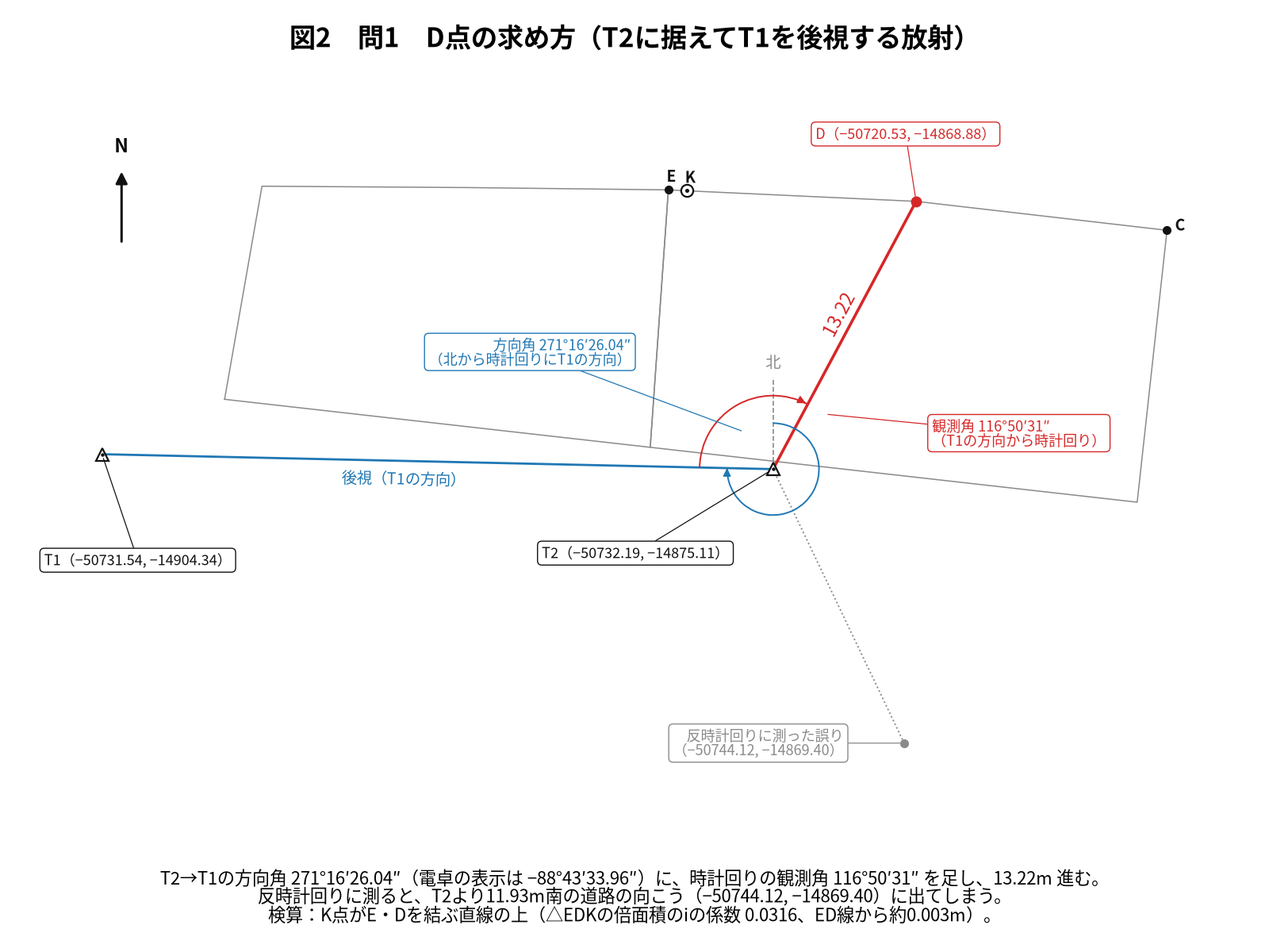
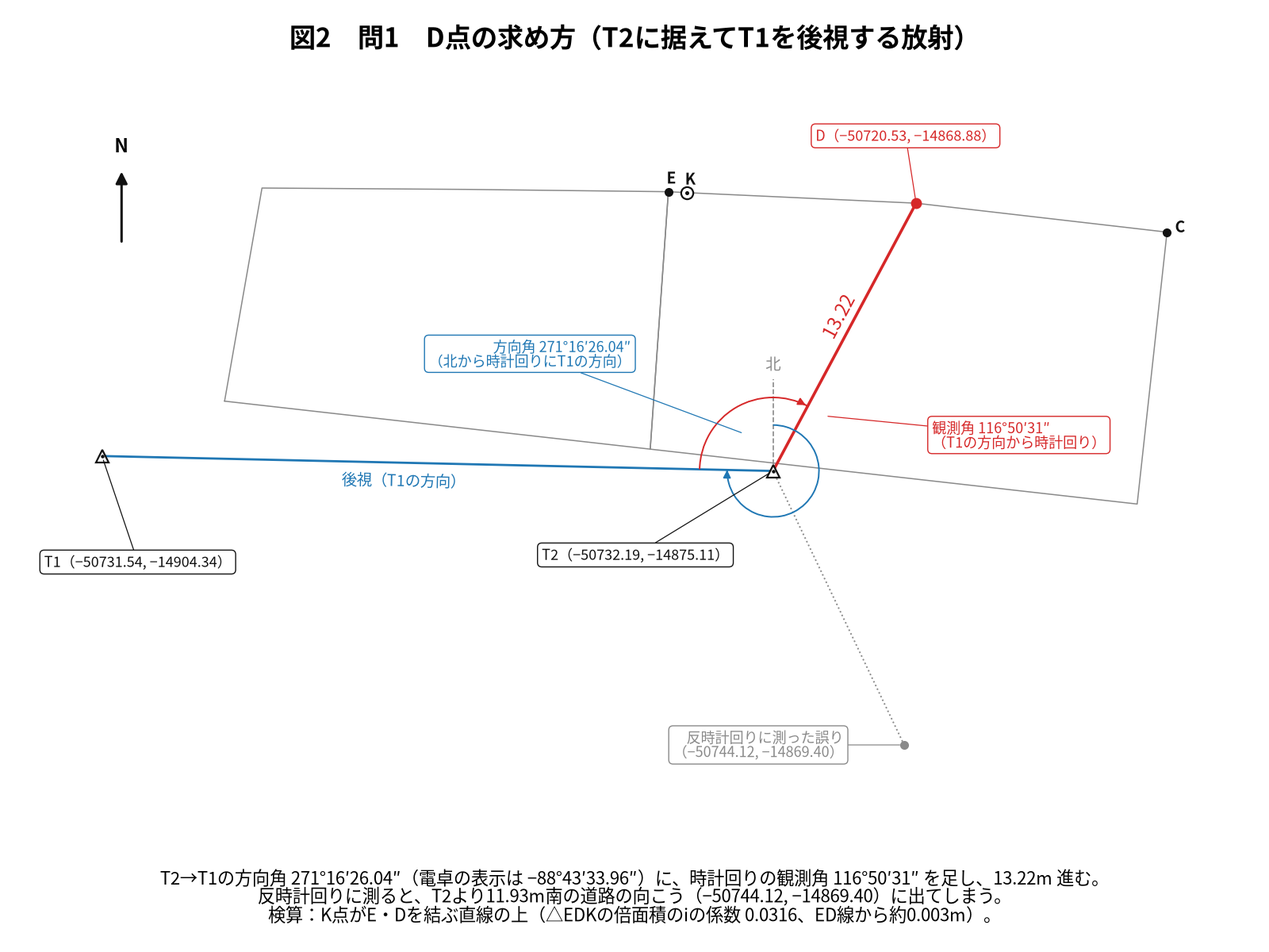
H30 Q21: 最新の依頼文・執筆プロンプトと照らし合わせた追加作業（解答例との直接照合、図10・図11の追加）
- アガルートの解答例と第1欄〜第4欄を欄ごと・空欄ごとに直接照合（すべて一致）。記事の冒頭を「照合済み」に、照合スクリプトの間接の照合を直接の照合に置き換え
- 問題文の注と調査図素図の注を書き分け、まとめに具体的な時間配分と解く順番を追加（図11）
- 解説と見比べて、帯の面積を対角線2本で出す別解（図10）、地積測量図の単位・凡例、増築は建物の登記であることを追加
- 図2・図3の表示範囲に背景の区画の頂点を全部入れ直した（重なりの自動検査0件・目視確認済み）
- 照合スクリプトNG 0件（335項目）。README・CLAUDE.md・改善記録を更新

Claude-Session: https://claude.ai/code/session_01XxzUrF9d5pKi2C2ak82JYQ

diff --git a/note-articles-Kijyutsu/H30/Q21/verify_H30_dai21mon_kaiwa.py b/note-articles-Kijyutsu/H30/Q21/verify_H30_dai21mon_kaiwa.py
@@ -1,7 +1,8 @@
 """平成30年度 第21問（土地）会話形式note記事：記事・付属プロンプトの数値・体裁の照合スクリプト。
 2026-09-29、出題当初の試験問題の本文（リポジトリの public/kijutsu/H30-tochi/q25〜q30 と、ユーザー添付の過去問集の再掲。
-この年の訂正表は第22問だけ）と答案用紙（a1・a2）から作り直した版。予備校の解答例は添付がなく、照合していない
-（記事の冒頭にもそう書いてある）。答えはすべて、下の計算で座標から出し直して確かめる。
+この年の訂正表は第22問だけ）と答案用紙（a1・a2）から作り直した版。同日、別のセッションに添付されていたアガルートの過去問集
+（全22ページ。解答例は第1欄・第2欄・第3欄・第4欄）と、欄ごと・空欄ごとに直接照合した（下の AGAROOT）。
+答えはすべて、下の計算で座標から出し直して確かめる。
 実行: python3 note-articles-Kijyutsu/H30/Q21/verify_H30_dai21mon_kaiwa.py"""
 import cmath
 import math
@@ -162,32 +163,57 @@ check('東西の長さ', f'東西が約{max(ys) - min(ys):.1f}mで約{round((max
 check('南北の長さ', f'南北が約{max(xs) - min(xs):.1f}mで約{round((max(xs) - min(xs)) * 4)}mm')
 check('T4まで', f'東西約{round((T4.imag - min(ys)) * 4)}mm、南北約{round((max(xs) - T4.real) * 4)}mm')
 for s in ['地番欄は『11番1、11番2』', '『A市B町三丁目』', '（イ）11－1と（ロ）11－2', 'B・D・J・Kはコンクリート杭、C・E・Iは金属標',
-          '基準点T2・T4の位置と点名（注6）', 'E・Iの西は10－1', 'E・K・D・Cの北は10－3', 'Eの北西の角は10－2', '1m ＝ 4mm']:
+          '基準点T2・T4の位置と点名（問題文の注6）', '単位の表示「（単位：m）」', '境界標の種類の凡例', 'E・Iの西は10－1', 'E・K・D・Cの北は10－3', 'Eの北西の角は10－2', '1m ＝ 4mm']:
     check('問4', s)
 
-# ---- 間接の照合：作り直す前の版（2026-09-29、アガルートの解答例と照合済み）の照合スクリプトに転記されていた答え ----
-# 今回は解答例の添付がないので、その転記と一致するかを「間接の照合」として確かめる（記事の冒頭には照合済みと書かない）。
-PREV_AGAROOT = ['−50720.53', '−14868.88', '−50731.24', '−14880.46', '表題登記', '隣接する', '登記された', '- **エ**：意思',
-                '土地一部地目変更・分筆登記', '地積測量図　代理権限証書', '金2,000円', '13番1号　丙山次郎', 'A市B町三丁目',
-                '③253', '（イ）11番1', '③244', '平成30年10月1日一部地目変更', '①③11番1、11番2に分筆', '（ロ）11番2', '②宅地',
-                '③9.03', '11番から分筆', '：0.80', '：10.00', '：11.00', '：11.91', '：20.54', '：0.81', '：11.24', '：11.29',
-                '11番1、11番2']
-for s_ in PREV_AGAROOT:
-    check('旧版に転記されたアガルートの解答例と一致（間接）', s_)
+# ---- アガルートの解答例との直接の照合（2026-09-29、過去問集の解答例ページ〈第1欄〜第4欄〉から欄ごと・空欄ごとに転記） ----
+AGAROOT = {
+    '第1欄 D点': '**▶ D点（−50720.53, −14868.88）**',
+    '第1欄 I点': '**▶ I点（−50731.24, −14880.46）**',
+    '第2欄 ア': '- **ア**：表題登記', '第2欄 イ': '- **イ**：隣接する', '第2欄 ウ': '- **ウ**：登記された', '第2欄 エ': '- **エ**：意思',
+    '第3欄 登記の目的': '- **登記の目的**：土地一部地目変更・分筆登記',
+    '第3欄 添付書類': '- **添付書類**：地積測量図　代理権限証書',
+    '第3欄 登録免許税': '- **登録免許税**：金2,000円',
+    '第3欄 申請人': '- **申請人**：A市B町三丁目13番1号　丙山次郎',
+    '第3欄 所在': '- **所在**：A市B町三丁目',
+    '第3欄 1行目': '- **1行目（分筆前）**：①11番、②雑種地、③253',
+    '第3欄 （イ）の行': '- **2行目（イ）**：①（イ）11番1、③244、登記原因「平成30年10月1日一部地目変更　①③11番1、11番2に分筆」',
+    '第3欄 （ロ）の行': '- **3行目（ロ）**：①（ロ）11番2、②宅地、③9.03、登記原因「11番から分筆」',
+    '第4欄 地番・所在': '地番欄は『11番1、11番2』。土地の所在は『A市B町三丁目』',
+    '第4欄 地番の符号': '（イ）11－1と（ロ）11－2',
+    '第4欄 EK': '- **EK**：0.80', '第4欄 KD': '- **KD**：10.00', '第4欄 DC': '- **DC**：11.00', '第4欄 CB': '- **CB**：11.91',
+    '第4欄 BJ': '- **BJ**：20.54', '第4欄 JI': '- **JI**：0.81', '第4欄 IE': '- **IE**：11.24', '第4欄 KJ': '- **KJ（分筆線）**：11.29',
+    '第4欄 境界標': 'B・D・J・Kはコンクリート杭、C・E・Iは金属標',
+    '第4欄 隣接地': 'E・Iの西は10－1、E・K・D・Cの北は10－3、Eの北西の角は10－2',
+    '第4欄 基準点': '基準点T2・T4の位置と点名',
+    '解説の求積（イ）': '244.561', '解説の求積（ロ）': '9.03935', '解説の合計': '253.60035', '解説の公差': '1.43㎡',
+}
+for k_, s_ in AGAROOT.items():
+    check(f'アガルートの解答例と一致（{k_}）', s_)
+check('照合済みの一文', '※本記事の数値は、アガルートアカデミーの解答例と照合済みです。')
+check('解説と見比べて足した別解（対角線2本）', '帯の倍面積 ＝ Conjg(E′ − J′) × (K′ − I′)')
+check('対角線の式の表示', '表示：' + disp((E - J).conjugate() * (K - I)))
+judge('対角線の式のiの係数が4点の式と同じ', abs(((E - J).conjugate() * (K - I)).imag - 18.0787) < 1e-9)
+for s_ in ['いちばん時間を食うのは、乙土地の7点と、帯と残りの駐車場の面積', 'D点とI点がなくても書ける欄はどこですか？',
+           '①問2を埋める、②申請書の計算の要らない欄を書く、③原点をずらす、④D点、⑤I点と甲土地の面積の裏付け、⑥乙土地・帯・残りの面積と公差の判定、⑦地積測量図の辺長と作図',
+           '不動産登記法第51条第1項', '調査図素図の注で、K点は', '調査図素図の注に『I点は', '座標は問題文の注3で', '辺の長さは問題文の注4']:
+    check('最新の依頼文との照らし合わせで足した内容', s_)
 absent('旧版の実測面積の誤記', '253.61')
+for bad in ['座標は注3', '検算よ。注で', '次はI点。注に', '（注5）', '（注6）']:
+    absent('どちらの注か書き分けていない', bad)
 
 # ---- 付属プロンプトとの整合 ----
 a = base.index('あなたは土地家屋調査士試験の教材デザイナーです。')
 b = base.index('---\n\n## 差し替えデータ（問題ごとにここを埋める）')
 body = base[a:b].replace('note記事【記事のタイトル】', 'note記事「' + text.splitlines()[0][2:] + '」', 1)
 judge('解説図プロンプトの本文が基本フォームと一致', body in fig)
-n_fig = len(re.findall(r'^- \*\*図\d：', fig, re.M))
-judge(f'解説図プロンプトの図の数 {n_fig}枚（9枚）', n_fig == 9)
-for i in range(1, 10):
-    judge(f'作図済みPNG 図{i}', any(f.startswith(f'H30_dai21mon_zu0{i}_') and f.endswith('.png')
+n_fig = len(re.findall(r'^- \*\*図\d+：', fig, re.M))
+judge(f'解説図プロンプトの図の数 {n_fig}枚（11枚）', n_fig == 11)
+for i in range(1, 12):
+    judge(f'作図済みPNG 図{i}', any(f.startswith(f'H30_dai21mon_zu{i:02d}_') and f.endswith('.png')
                                   for f in os.listdir(os.path.join(HERE, 'zu'))))
-nums = [int(m) for m in re.findall(r"(?:new_figure\(|suptitle\()'図(\d)　", draw)]
-judge(f'作図スクリプトの図のタイトル番号が1から順（{nums}）', nums == list(range(1, 10)))
+nums = [int(m) for m in re.findall(r"(?:new_figure\(|suptitle\()'図(\d+)　", draw)]
+judge(f'作図スクリプトの図のタイトル番号が1から順（{nums}）', nums == list(range(1, 12)))
 for s in ['271°16′26.04″', '−88°43′33.96″', '116°50′31″', '4°00′58.26″', '848.5619 ÷ 399.4435', '2.1243…',
           '（−50744.12, −14869.40）', '（−50731.33, −14879.67）', '0.79', '187.18645', '191.65', '4.47',
           '253.60035', '1.43', '4.13', '253.03', '244.561', '9.03935', '0.8050…', '約90mm', '約54mm', '約94mm', '約67mm',
@@ -195,7 +221,8 @@ for s in ['271°16′26.04″', '−88°43′33.96″', '116°50′31″', '4°0
     check('解説図プロンプトの数値', s, fig, '解説図')
     check('作図スクリプトの数値', s, draw, '作図')
 for s in ['暗算でずらせますね', 'K点はちゃんとED線の上です！', 'わなにはまるところでした……', 'これが鉄則よ',
-          'その1月以内ね', 'こちらも範囲内です', '（イ）の行の原因には①も付けるのよ', '少し離して書きなさい']:
+          '乙土地の申請書には入らないわ', 'こちらも範囲内です', '（イ）の行の原因には①も付けるのよ', '少し離して書きなさい',
+          '対角線が交わる四角形なら、この式1本で済むんですね', '問2は先に取れています']:
     check('図の挿入位置の文言', s)
     check('図の挿入位置の文言（プロンプト側）', s, fig, '解説図')
 for s in ['平成30年10月19日　申請　Ａ地方法務局', '土地一部地目変更・分筆登記', '地積測量図　代理権限証書', '金2,000円',
@@ -233,11 +260,11 @@ for s in ['①誤答', '②添削（赤ペン）', '③正解', 'Ａ市Ｂ町三
         check('添削の画像とプロンプトの文言', s, fix, '添削')
 
 # ---- 表記 ----
-for bad in ['PDF', '名変', '右上', '左下', '✓', '✕', 'コンクリートくい', 'くいが', 'ブロックへい', '照合済みです', '≒']:
+for bad in ['PDF', '名変', '右上', '左下', '✓', '✕', 'コンクリートくい', 'くいが', 'ブロックへい', '≒']:
     absent('誤記・混入・専門用語のひらがな書き', bad)
 check('専門用語は問題文どおりの漢字', 'コンクリート杭')
 check('専門用語は問題文どおりの漢字', 'ブロック塀')
-check('照合していないことの明記', '予備校の解答例との照合はしていません')
+absent('照合していない旨の古い一文', '予備校の解答例との照合はしていません')
 
 # ---- note向けの体裁 ----
 lines = text.splitlines()
@@ -254,7 +281,7 @@ for i, l in enumerate(lines):
             same.append(i + 1)
 judge(f'同じ話者のセリフの連続: {same}', not same)
 n_marker = len(re.findall(r'^> 【画像挿入】', text, re.M))
-judge(f'画像挿入マーカー（引用形式）: {n_marker}個（解説図9＋添削1＋完成形1＝計11か所の想定）', n_marker == 11)
+judge(f'画像挿入マーカー（引用形式）: {n_marker}個（解説図11＋添削1＋完成形1＝計13か所の想定）', n_marker == 13)
 judge('記事の最後が区切り線', lines[-1] == '---')
 title = lines[0]
 prefix = '# 【土地家屋調査士受験生向け】平成30年度問題21（土地）〜'

diff --git a/note-articles-Kijyutsu/H30/Q21/zu/draw_H30_dai21mon_kaisetsuzu.py b/note-articles-Kijyutsu/H30/Q21/zu/draw_H30_dai21mon_kaisetsuzu.py
@@ -1,4 +1,4 @@
-"""平成30年度 第21問（土地）会話形式note記事の解説図9枚を、座標値から作図する。
+"""平成30年度 第21問（土地）会話形式note記事の解説図11枚を、座標値から作図する。
 
 `../prompt_H30_dai21mon_kaiwa_kaisetsuzu.md`（基本フォーム `../../../prompt_kaisetsuzu-gazou_kihon-form_tochi.md` から作成）
 の指示を、そのままPythonにしたもの。図に書く数値はすべて座標から計算し直し、記事の数値と一致しなければ止まる。
@@ -127,7 +127,7 @@ fig, (ax,) = new_figure('図2　問1　D点の求め方（T2に据えてT1を後
                         '反時計回りに測ると、T2より11.93m南の道路の向こう（−50744.12, −14869.40）に出てしまう。\n'
                         '検算：K点がE・Dを結ぶ直線の上（△EDKの倍面積のiの係数 0.0316、ED線から約0.003m）。')
 z = Zu(ax, fontsize=14)
-fit(ax, [T1, T2, D, Dw, E, C, T2 + P(4, 0)], margin=0.06, pad_aspect=True)
+fit(ax, [T1, T2, D, Dw, T2 + P(4, 0)] + KOU + OTSU, margin=0.06, pad_aspect=True)   # 背景の区画の頂点も全部入れる
 z.poly(KOU, color=GRAY, lw=1.1)
 z.poly(OTSU, color=GRAY, lw=1.1)
 z.line(T2, T2 + 4, color=GRAY, lw=1.2, ls='--')
@@ -166,7 +166,7 @@ fig, (ax1, ax2) = new_figure('図3　問1　I点の求め方（H→Eの延長線
                              'Eの真南にとると（−50731.33, −14879.67）で、J点とわずか0.01mしか離れず、正しいIより0.79m東。',
                              ncols=2, width_ratios=[1, 1])
 za = Zu(ax1, fontsize=14)
-fit(ax1, [H, A, B, J, E, G], margin=0.06, pad_aspect=True)
+fit(ax1, [H] + KOU + OTSU, margin=0.06, pad_aspect=True)   # 背景の区画の頂点も全部入れる
 za.poly(KOU, color=GRAY, lw=1.1)
 za.poly(OTSU, color=GRAY, lw=1.1)
 za.line(H, E, color=BLACK, lw=2.4)
@@ -354,7 +354,7 @@ ALL_PROBLEMS += save(fig, [z], 'H30_dai21mon_zu08_bunpitsu_chiban.png')
 # =====================================================================
 fig, (ax,) = new_figure('図9　問4　地積測量図（11番1・11番2）の完成見本',
                         '縮尺1/250で答案用紙に描くと 1m ＝ 4mm（乙土地は東西約90mm・南北約54mm、T4まで入れて東西約94mm・南北約67mm）。\n'
-                        'JIは0.8050…で四捨五入の境目なので0.81。座標値・地積・求積方法・測量年月日は書かない（注5）。T2・T4は位置と点名だけ（注6）。\n'
+                        'JIは0.8050…で四捨五入の境目なので0.81。座標値・地積・求積方法・測量年月日は書かない（問題文の注5）。T2・T4は位置と点名だけ（問題文の注6）。\n'
                         '地番欄は「11番1、11番2」、土地の所在は「A市B町三丁目」。T1・T3と、乙土地の筆界点でないA・F・G・Hは描かない。')
 z = Zu(ax, fontsize=15)
 fit(ax, [E, C, B, I, T2, T4, E + P(4, 0)], margin=0.08, pad_aspect=True)
@@ -391,5 +391,75 @@ z.edge_label(B, J, '道路', co, fs=15, dists=(46, 56), rotate=False, ts=(0.3, 0
 z.free_text(P(-18.6, 9.0), '（単位：ｍ）\n◎ コンクリート杭：B・D・J・K\n● 金属標：C・E・I\n△ 基準点：T2・T4', fs=13,
             ha='left', va='bottom', offsets=((0, 0), (0, 30), (-40, 0)))
 ALL_PROBLEMS += save(fig, [z], 'H30_dai21mon_zu09_chiseki_sokuryouzu.png')
+
+# =====================================================================
+# 図10：問3 別解 帯（四角形）の面積を対角線2本で出す
+# =====================================================================
+dg = (E - J).conjugate() * (K - I)
+assert f'{dg.real:.4f}' == '126.2051' and f'{dg.imag:.4f}' == '18.0787' and f'{abs(dg.imag) / 2:.5f}' == '9.03935'
+fig, (ax1, ax2) = new_figure('図10　問3　別解　帯（四角形E・I・J・K）の面積を対角線2本で出す',
+                             '四角形の倍面積は、対角線2本の Conjg(E′ − J′) × (K′ − I′) のiの係数だけで出る（4点を順にたどる式と同じ18.0787）。\n'
+                             '18.0787 ÷ 2 ＝ 9.03935 → 宅地なので9.03㎡。点を4つたどる式の検算に使う。',
+                             ncols=2, width_ratios=[1, 1.4])
+za = Zu(ax1, fontsize=14)
+fit(ax1, RO + [E + P(0, 3), I + P(0, -3)], margin=0.06, pad_aspect=True)
+za.poly(RO, fill=PURPLE)
+za.line(E, J, color=RED, lw=2.4, ls='--')
+za.line(I, K, color=BLUE, lw=2.4, ls='--')
+za.north_arrow(length=0.07)
+for p, n in [(E, 'E'), (I, 'I'), (J, 'J'), (K, 'K')]:
+    za.point(p, 'metal' if n in 'EI' else 'concrete')
+    za.point_label(p, n, away=centroid(RO))
+za.callout(E + (J - E) * 0.3, '対角線 E→J', dirs=(180, 160, -160), color=RED, dists=(60, 80, 100))
+za.callout(I + (K - I) * 0.3, '対角線 I→K', dirs=(0, 20, -20), color=BLUE, dists=(60, 80, 100))
+ax1.set_title('帯E・I・J・K（幅約0.8m）', fontsize=17, weight='bold', pad=6)
+ax2.axis('off')
+ax2.set_xlim(0, 100)
+ax2.set_ylim(0, 100)
+for y, txt, col, fs in [(86, '4点を順にたどる式', BLACK, 18),
+                        (77, 'E′・Conjg(I′) ＋ I′・Conjg(J′) ＋ J′・Conjg(K′) ＋ K′・Conjg(E′)', BLACK, 14),
+                        (69, '表示：128.9305 ＋ 18.0787i', BLACK, 15),
+                        (52, '対角線2本の式（別解）', RED, 18),
+                        (43, 'Conjg(E′ − J′) × (K′ − I′)', RED, 16),
+                        (35, '表示：126.2051 ＋ 18.0787i', RED, 15),
+                        (18, 'どちらもiの係数は18.0787（実部は使わない）', BLACK, 15),
+                        (9, '18.0787 ÷ 2 ＝ 9.03935 → （ロ）11番2は9.03㎡', BLACK, 15)]:
+    ax2.text(4, y, txt, fontsize=fs, color=col, va='center', weight='bold' if fs >= 18 else 'normal')
+ALL_PROBLEMS += save(fig, [za], 'H30_dai21mon_zu10_obi_taikakusen.png')
+
+# =====================================================================
+# 図11：本番の解く順番（流れ図。固定配置）
+# =====================================================================
+setup_font()
+fig = plt.figure(figsize=(16, 12), dpi=100)
+fig.patch.set_facecolor('white')
+fig.suptitle('図11　本番の解く順番（D点・I点がなくても書ける欄を先に）', fontsize=24, weight='bold', y=0.965)
+ax = fig.add_axes([0.03, 0.10, 0.94, 0.80])
+ax.set_xlim(0, 100)
+ax.set_ylim(0, 100)
+ax.axis('off')
+STEPS = [
+    ('①', '問2の穴埋め（ア 表題登記・イ 隣接する・ウ 登記された・エ 意思）', '計算なし', GREEN),
+    ('②', '申請書の計算の要らない欄（登記の目的・添付書類・登録免許税・申請人・所在・1行目・地番と原因・（ロ）の地目）', '計算なし', GREEN),
+    ('③', '原点を（−50720.00, −14880.00）にずらす', '約1分', BLUE),
+    ('④', 'D点（T2から放射。K点がE・D線に乗るかで検算）', 'D・Iと裏付けで約10分', BLUE),
+    ('⑤', 'I点（H→Eの延長線とA→Bの交点）と甲土地187.18㎡の裏付け', '', BLUE),
+    ('⑥', '乙土地・帯・残りの面積と公差の判定（いちばん時間を食う。D・Iがないと始められない）', '約10分', RED),
+    ('⑦', '地積測量図の辺長8本と作図', '約15分', PURPLE),
+]
+for k, (no, txt, tm, col) in enumerate(STEPS):
+    y = 88 - k * 13
+    ax.add_patch(FancyBboxPatch((3, y - 4.5), 94, 9, boxstyle='round,pad=0.5', fc='#f7f7f7', ec=col, lw=1.8))
+    ax.text(5, y, no, fontsize=20, weight='bold', color=col, va='center')
+    ax.text(10, y, txt, fontsize=15, va='center')
+    if tm:
+        ax.text(95, y, tm, fontsize=15, va='center', ha='right', color=col, weight='bold')
+    if k < len(STEPS) - 1:
+        ax.annotate('', (50, y - 8.3), xytext=(50, y - 5.2), arrowprops=dict(arrowstyle='-|>', color=GRAY, lw=1.6))
+fig.text(0.5, 0.045, '①②は座標がなくても書ける。面積の計算で時間が足りなくなっても、問2と申請書の大部分は先に取れている。',
+         ha='center', va='center', fontsize=15)
+path = os.path.join(OUT, 'H30_dai21mon_zu11_toku_junban.png')
+fig.savefig(path, dpi=100, facecolor='white')
+print('[重なり検査] 図11: 流れ図（固定配置）\n  →', path)
 
 print('重なりの合計:', len(ALL_PROBLEMS))

diff --git a/note-articles-Kijyutsu/H30/Q21/note_H30_dai21mon_tochi_kaiwa_kaisetsu.md b/note-articles-Kijyutsu/H30/Q21/note_H30_dai21mon_tochi_kaiwa_kaisetsu.md
@@ -1,6 +1,6 @@
 # 【土地家屋調査士受験生向け】平成30年度問題21（土地）〜真南に見えるI点は延長線の交点〜
 
-※本記事は、平成30年度の試験問題の本文（出題当初のもの。この年の訂正表は第22問だけで、第21問の訂正はない）と答案用紙に基づいて書いています。予備校の解答例との照合はしていません。
+※本記事の数値は、アガルートアカデミーの解答例と照合済みです。試験問題の本文（出題当初のもの。この年の訂正表は第22問だけで、第21問の訂正はない）と答案用紙に基づいて書いています。
 
 ---
 
@@ -118,7 +118,7 @@ D′ ＝ T2′ ＋ 13.22∠( arg(T1′ − T2′) ＋ 116°50′31″ )
 表示：−0.5300… ＋ 11.1200…i
 
 **トリ先生**  
-「途中の arg(T1′ − T2′)、つまりT2→T1の方向角は −88°43′33.96″ と負で出るわ。360°を足して 271°16′26.04″ と読めばいいけど、計算は負のままで結果は同じ。座標は注3で小数第3位を四捨五入。丸めた値を記憶して、元の原点に戻しなさい」
+「途中の arg(T1′ − T2′)、つまりT2→T1の方向角は −88°43′33.96″ と負で出るわ。360°を足して 271°16′26.04″ と読めばいいけど、計算は負のままで結果は同じ。座標は問題文の注3で小数第3位を四捨五入。丸めた値を記憶して、元の原点に戻しなさい」
 
 ```
 0 [−] 0.53 [+] 11.12 [i] [SHIFT] [STO] [D]
@@ -135,7 +135,7 @@ Y ＝ −14880.00 ＋ 11.12 ＝ −14868.88
 「Yのほうは、マイナス1万4千8百80に11.12を足すので、絶対値が小さくなって−14868.88。符号を間違えないようにします」
 
 **トリ先生**  
-「検算よ。注で、K点はD点とE点を結ぶ直線の上の点。三角形E・D・Kの面積がほぼ0になるはず。E′を記憶して、K′は直接打ち込みなさい」
+「検算よ。調査図素図の注で、K点はD点とE点を結ぶ直線の上の点。三角形E・D・Kの面積がほぼ0になるはず。E′を記憶して、K′は直接打ち込みなさい」
 
 電卓操作（E＝E′）
 
@@ -171,7 +171,7 @@ Y ＝ −14880.00 ＋ 11.12 ＝ −14868.88
 ## 第3章：問1 I点はH→Eの延長線とA→Bの交点
 
 **トリ先生**  
-「次はI点。注に『I点は、A点とB点を結ぶ直線上の点であり、E点とH点を結ぶ直線の延長線上の点である』とあるわ。藍子、Iは？」
+「次はI点。調査図素図の注に『I点は、A点とB点を結ぶ直線上の点であり、E点とH点を結ぶ直線の延長線上の点である』とあるわ。藍子、Iは？」
 
 **藍子**  
 「EとHのY座標は−14879.67と−14878.97でほとんど同じ。E・Hの線は真南北ですね。だからIはEの真南で、A・Bの線の上。Y＝−14879.67で出して（−50731.33, −14879.67）です！」
@@ -183,7 +183,7 @@ Y ＝ −14880.00 ＋ 11.12 ＝ −14868.88
 「J点は（−50731.33, −14879.66）……。Iとの差が0.01mしかありません。でも調査図素図では、IとJの間にブロック塀の幅くらいのすき間が描いてあります」
 
 **トリ先生**  
-「そう。EからHへは、北へ9.97m進む間に東へ0.70mずれている。真北から東へ4°00′58.26″も傾いているの。延長して南へ11m下りれば、東西で0.8mもずれる。『ほとんど同じ』は、座標の問題では『違う』のよ。注どおり、H→Eの延長線とA→Bの交点を出しなさい」
+「そう。EからHへは、北へ9.97m進む間に東へ0.70mずれている。真北から東へ4°00′58.26″も傾いているの。延長して南へ11m下りれば、東西で0.8mもずれる。『ほとんど同じ』は、座標の問題では『違う』のよ。調査図素図の注どおり、H→Eの延長線とA→Bの交点を出しなさい」
 
 **藍子**  
 「軸に平行な辺がないので、Conjgの積のiの係数の比で交点を出します。I′ ＝ H′ ＋ (E′ − H′) × t です。A′、B′、F′を記憶して、T1′はもう使わないので、変数XはH′に使い回します」
@@ -215,7 +215,7 @@ t ＝ ( Conjg(A′ − H′) × (B′ − A′) のiの係数 ) ÷ ( Conjg(E′ 
 表示：16.8406 − 399.4435i
 
 **藍子**  
-「iの係数は分子が−848.5619、分母が−399.4435。マイナスどうしなので、t ＝ 848.5619 ÷ 399.4435 で約2.12。1を超えているので、HからEを越えて延長した先に交点があります。注の『延長線上』のとおりです」
+「iの係数は分子が−848.5619、分母が−399.4435。マイナスどうしなので、t ＝ 848.5619 ÷ 399.4435 で約2.12。1を超えているので、HからEを越えて延長した先に交点があります。調査図素図の注の『延長線上』のとおりです」
 
 式（点名）
 
@@ -341,7 +341,7 @@ Y ＝ −14880.00 ＋ （−0.46） ＝ −14880.46
 「地目が変わった日は、売買契約をした1月ですか？」
 
 **トリ先生**  
-「契約は権利の話。地目は利用状況で決まるの。駐車場の一部だった帯が、塀で区切られて家の敷地になったのは、塀の工事が完了した平成30年10月1日。答案用紙の申請日の10月19日は、その1月以内ね」
+「契約は権利の話。地目は利用状況で決まるの。駐車場の一部だった帯が、塀で区切られて家の敷地になったのは、塀の工事が完了した平成30年10月1日。答案用紙の申請日の10月19日は、その1月以内ね。同じ日に終わった本件建物の増築は、建物の表題部の変更の登記（不動産登記法第51条第1項）で、申請するのは建物の所有者の山田さん。乙土地の申請書には入らないわ」
 
 > 【画像挿入】必要な登記の図（帯E・I・J・Kが平成30年10月1日にブロック塀K→Jで区切られ宅地に、乙土地11番の土地一部地目変更・分筆登記、甲土地には表示の登記は要らない、当分は合筆しない）
 
@@ -431,6 +431,29 @@ Y ＝ −14880.00 ＋ （−0.46） ＝ −14880.46
 「489.122 ÷ 2 ＝ 244.561。雑種地で10㎡を超えるので、1㎡未満を切り捨てて244㎡（不動産登記規則第100条）。切り捨てる前の 244.561 ＋ 9.03935 ＝ 253.60035 で、乙土地全体と一致します」
 
 **トリ先生**  
+「帯は四角形だから、別解も覚えておきなさい。四角形の面積は、対角線2本だけで出せるの。対角線E→JとI→Kで Conjg(E′ − J′) × (K′ − I′) を計算して、iの係数を2で割る。点を4つ順にたどらなくていいから、打つ数が半分近くに減るわ。検算にちょうどいいのよ」
+
+式（点名）
+
+```
+帯の倍面積 ＝ Conjg(E′ − J′) × (K′ − I′)
+```
+
+電卓操作（E＝E′、Y＝I′）
+
+```
+[Apps] [4] [ALPHA] [E] [−] [(] 0 [−] 11.33 [+] 0.34 [i] [)] [)]
+[×] [(] 0 [−] 0.07 [+] 1.13 [i] [−] [ALPHA] [Y] [)] [=]
+```
+
+表示：126.2051 ＋ 18.0787i
+
+**藍子**  
+「iの係数は18.0787で、4点をたどったときと同じ。18.0787 ÷ 2 ＝ 9.03935で、帯は9.03㎡。対角線が交わる四角形なら、この式1本で済むんですね」
+
+> 【画像挿入】帯（四角形E・I・J・K）の面積を対角線2本で出す別解の図（対角線E→JとI→K、Conjg(E′ − J′) × (K′ − I′)、iの係数18.0787 ÷ 2 ＝ 9.03935）
+
+**トリ先生**  
 「地番はどうなる？」
 
 **藍子**  
@@ -490,7 +513,7 @@ Y ＝ −14880.00 ＋ （−0.46） ＝ −14880.46
 「問4は、問3の申請書に付ける地積測量図。分筆の登記の地積測量図は、分筆前の11番を描いて、分筆線で分筆後の各土地を示して、符号を付けるの（不動産登記規則第78条）」
 
 **藍子**  
-「地番欄は『11番1、11番2』。土地の所在は『A市B町三丁目』。区画の中に（イ）11－1と（ロ）11－2を書きます。辺の長さは注4で小数第3位を四捨五入です」
+「地番欄は『11番1、11番2』。土地の所在は『A市B町三丁目』。区画の中に（イ）11－1と（ロ）11－2を書きます。辺の長さは問題文の注4で小数第3位を四捨五入です」
 
 - **EK**：0.80
 - **KD**：10.00
@@ -504,8 +527,8 @@ Y ＝ −14880.00 ＋ （−0.46） ＝ −14880.46
 **トリ先生**  
 「JIは0.8050…で、小数第3位がちょうど5。四捨五入の境目だから0.81に切り上がる。0.80と書かないこと。書くもの・書かないものも整理するわよ」
 
-- **書く**：各辺の長さ、分筆線K→J、地番（（イ）11－1、（ロ）11－2）、方位、隣接地の地番（E・Iの西は10－1、E・K・D・Cの北は10－3、Eの北西の角は10－2、C・Bの東とB・J・Iの南は道路）、境界標（B・D・J・Kはコンクリート杭、C・E・Iは金属標）、基準点T2・T4の位置と点名（注6）
-- **書かない**：各筆界点の座標値、平面直角座標系の番号又は記号、地積及びその求積方法、測量年月日（注5）。T2・T4の座標値（注6）。T1・T3、H・A・F・G（乙土地の筆界点ではない）
+- **書く**：各辺の長さ、分筆線K→J、地番（（イ）11－1、（ロ）11－2）、方位、隣接地の地番（E・Iの西は10－1、E・K・D・Cの北は10－3、Eの北西の角は10－2、C・Bの東とB・J・Iの南は道路）、境界標（B・D・J・Kはコンクリート杭、C・E・Iは金属標）、基準点T2・T4の位置と点名（問題文の注6）、単位の表示「（単位：m）」、境界標の種類の凡例（記号がどの境界標かを書き添える）
+- **書かない**：各筆界点の座標値、平面直角座標系の番号又は記号、地積及びその求積方法、測量年月日（問題文の注5）。T2・T4の座標値（問題文の注6）。T1・T3、H・A・F・G（乙土地の筆界点ではない）
 - **印刷済みなので書かない**：作成者・申請人（「（略）」）、縮尺250分の1
 
 **藍子**  
@@ -537,7 +560,21 @@ Y ＝ −14880.00 ＋ （−0.46） ＝ −14880.46
 「座標は2つだけなのに、マイナスの数字と『ほとんど真南』に振り回されました。『延長線上』と書いてあったら、必ず交点で出します」
 
 **トリ先生**  
-「そう。原点をずらすのに1分、D・Iに10分。残りを申請書と地積測量図に回しなさい。アンタならできるわ。次の年度も、この調子でいくわよ！」
+「そう。時間配分も、具体的に決めておくのよ。この問題でいちばん時間を食うのは、乙土地の7点と、帯と残りの駐車場の面積。K′とJ′を式の中で何度も打つから、電卓の操作がいちばん長い。しかも、D点とI点が出ていないと始められないの」
+
+**藍子**  
+「逆に、D点とI点がなくても書ける欄はどこですか？」
+
+**トリ先生**  
+「思ったより多いわ。問2の穴埋めは全部。問3の申請書も、登記の目的、添付書類、登録免許税、申請人、所在、1行目の11番・雑種地・253、（イ）（ロ）の地番と登記原因、（ロ）の地目まで、計算なしで書ける。問4の地番欄と土地の所在もね。座標が要るのは、問1の2点、（イ）の244と（ロ）の9.03、公差の判定、地積測量図の辺長と作図だけよ」
+
+**藍子**  
+「じゃあ、本番はこの順番で解きます。①問2を埋める、②申請書の計算の要らない欄を書く、③原点をずらす、④D点、⑤I点と甲土地の面積の裏付け、⑥乙土地・帯・残りの面積と公差の判定、⑦地積測量図の辺長と作図。面積の計算で時間が足りなくなっても、申請書の大部分と問2は先に取れています」
+
+> 【画像挿入】本番の解く順番の流れ図（計算の要らない問2と申請書の欄を先に書き、原点のずらし→D点→I点と甲土地の裏付け→乙土地・帯・残りの面積と公差→地積測量図の順に進める。いちばん時間を食うのは面積の計算で、D・Iがないと始められない）
+
+**トリ先生**  
+「それでいいわ。原点をずらすのに1分、D・Iと甲土地の裏付けに10分、面積と公差に10分、地積測量図に15分が目安。アンタならできるわ。次の年度も、この調子でいくわよ！」
 
 **藍子**  
 「はい、先生！」

diff --git a/note-articles-Kijyutsu/qa-checklist-kijutsu.md b/note-articles-Kijyutsu/qa-checklist-kijutsu.md
@@ -349,6 +349,13 @@
 
 チェックで見つかった誤りの種類と、指示書・執筆プロンプトへの反映を記録する。新しい記録は上に追加する。
 
+**2026-09-29　H30 Q21（土地・会話形式）最新の執筆プロンプト・依頼文と照らし合わせた追加作業**
+
+- 経緯：出題当初の本文から作り直した版（解答例なし・「間接」の照合だけ）を、最新の依頼文と照らし直した。同じ日の別のセッションにアガルートの過去問集（全22ページ。解答例は第1欄〜第4欄）が添付されていたので、それで直接照合した
+- 照合結果：第1欄（D・I）、第2欄（ア〜エ。エは意思）、第3欄の全欄（登記の目的・添付書類・登録免許税・申請人・所在・土地の表示3行）、第4欄（地番欄・辺長8本・符号・境界標・隣接地・基準点）、解説の求積値（244.561・9.03935・253.60035）がすべて一致。記事の冒頭を「照合済み」に直し、照合スクリプトの「間接」の照合を、欄ごと・空欄ごとの直接の照合に置き換えた
+- 足りなかった事項と対応：①問題文の注と調査図素図の注を書き分けていなかった（「注3」「注で、K点は」など）→書き分けた。②まとめの時間配分が一般論（「D・Iに10分」）→いちばん時間を食う面積の計算と、D・Iがなくても書ける欄（問2全部、申請書の大部分、地積測量図の地番欄）を示し、藍子に解く順番を言わせ、図11（流れ図）を足した。③予備校の解説と見比べて、帯（四角形）の面積の別解（対角線2本 Conjg(E′ − J′) × (K′ − I′)）、地積測量図の単位の表示と境界標の凡例、増築は建物の登記で乙土地の申請書に入らないことを自分の言葉で足し、別解に図10を足した。④図2・図3の`fit`に背景の区画の頂点が入っていなかった（G・F・C・Dがパネルの端に寄る）→区画の頂点を全部入れた
+- 気づき：解答例なしで作った版でも、後で解答例が手に入ったら、冒頭の一文（「照合していない」）と照合スクリプトの照合の種類（間接→直接）を必ず直す。登記申請書・添削の画像はNoto CJKで描き直しても変化がなかった（地番の列が折れ返らない幅になっていた）
+
 **2026-09-29　R4 Q22（建物・会話形式）最新の執筆プロンプト・依頼文と照らし合わせた追加作業と画像の生成（ユーザー指示）**
 
 - 経緯：ユーザー指示「作成済みのR4 22問のコンテンツ・測量図・図解・登記申請書を最新のプロンプトと照らし合わせ、完了していない事項を追加作業で実行し、画像がまだなら作成して zu に保存」。R4/Q22は2026-09-28に作成したが、その後に第22問の各年度（R7・R6・R5・R2・R1・H25〜H30）で加わった依頼文・執筆プロンプト・本指示書のルールと、画像そのものの生成（`zu/`）が反映されていなかった。最新の依頼文の「作成するファイル」「特に守ること」「完了前に行うこと」を1項目ずつ当てはめた。答え（アガルートの解答例と全欄一致）は変えていない

diff --git a/note-articles-Kijyutsu/README.md b/note-articles-Kijyutsu/README.md
@@ -111,13 +111,13 @@ note-articles-Kijyutsu/
 │       └── verify_H29_dai22mon.py                             記事・付属プロンプトの数値・求積・体裁の照合スクリプト
 ├── H30/
 │   ├── Q21/
-│   │   ├── note_H30_dai21mon_tochi_kaiwa_kaisetsu.md     note記事本文（会話形式。2026-09-29に出題当初の試験問題の本文から作り直し。予備校の解答例の添付はなく未照合〈前の版に転記されたアガルートの答えとは一致〉。原点をずらした座標・放射のD点・延長線の交点のI点・筆界の定義〈エ＝意思〉・土地一部地目変更・分筆登記）
-│   │   ├── prompt_H30_dai21mon_kaiwa_kaisetsuzu.md       解説図9枚（全体図・D点・I点・甲土地の面積の裏付け・筆界の定義・必要な登記の判断・公差・分筆後の区画と地番・地積測量図）作成プロンプト（土地の基本フォームの記入済み）
+│   │   ├── note_H30_dai21mon_tochi_kaiwa_kaisetsu.md     note記事本文（会話形式。2026-09-29に出題当初の試験問題の本文から作り直し、同日アガルートの解答例と直接照合済み。原点をずらした座標・放射のD点・延長線の交点のI点・筆界の定義〈エ＝意思〉・土地一部地目変更・分筆登記）
+│   │   ├── prompt_H30_dai21mon_kaiwa_kaisetsuzu.md       解説図11枚（全体図・D点・I点・甲土地の面積の裏付け・筆界の定義・必要な登記の判断・公差・分筆後の区画と地番・地積測量図・帯の面積の別解〈対角線2本〉・本番の解く順番）作成プロンプト（土地の基本フォームの記入済み）
 │   │   ├── prompt_H30_dai21mon_toukishinseisho_gazou.md  登記申請書画像プロンプト（完成形。答案用紙どおり登録免許税が申請人より前、記入行4行）
 │   │   ├── prompt_H30_dai21mon_toukishinseisho_machigai.md  登記申請書「申請人」欄と（イ）（ロ）の行の誤答→添削→正解の画像プロンプト（3コマを縦に積んだ縦長）
 │   │   ├── prompt_H30_dai21mon_miidashi_gazou.md          note見出し画像（サムネイル）作成プロンプト（1280×670px）
 │   │   ├── verify_H30_dai21mon_kaiwa.py                  記事・付属プロンプト・生成画像の数値・体裁の照合スクリプト
-│   │   └── zu/                                          解説図9枚のPNGと作図スクリプト draw_H30_dai21mon_kaisetsuzu.py、登記申請書の完成形・添削（縦長）のPNG・HTMLと生成スクリプト make_H30_dai21mon_shinseisho_gazou.py
+│   │   └── zu/                                          解説図11枚のPNGと作図スクリプト draw_H30_dai21mon_kaisetsuzu.py、登記申請書の完成形・添削（縦長）のPNG・HTMLと生成スクリプト make_H30_dai21mon_shinseisho_gazou.py
 │   └── Q22/
 │       ├── note_H30_dai22mon_tatemono_kaisetsu.md             note記事本文（会話形式。アガルート解答例と照合済み）
 │       ├── prompt_H30_dai22mon_kaisetsuzu.md                  解説図6枚（工事前後比較図・敷地辺長図・建物図面・1階の誤り比較図・1階/2階求積図）作成プロンプト
